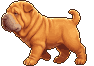
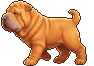
Shrink the ears to 70% and add a macOS build
- sprite pipeline pinches each ear to 70% of its drawn size on every
  pose and animation frame
- macOS support: menu-bar icon, no Dock icon, visible on all Spaces,
  universal dmg with an ad-hoc signature
- CI builds Windows and macOS apps

Claude-Session: https://claude.ai/code/session_01DBRrwihHR9FfhuiDe6rMt6

diff --git a/src/main.js b/src/main.js
@@ -2,6 +2,7 @@ const { app, BrowserWindow, Tray, Menu, screen, ipcMain, powerMonitor, nativeIma
 const fs = require('fs');
 const path = require('path');
 
+const MAC = process.platform === 'darwin';
 const ASSETS = path.join(__dirname, '..', 'assets');
 const BASE_W = 300, BASE_H = 330;      // window size at 100% scale
 const TICK_MS = 33;
@@ -142,7 +143,7 @@ function buildMenu() {
       { label: 'Show one now', click: () => { nextReminder = 0; } },
     ] },
     { label: 'Size', submenu: [radio('Small', 'size', 0.7), radio('Medium', 'size', 1), radio('Large', 'size', 1.4)] },
-    { label: 'Start with Windows', type: 'checkbox', checked: app.getLoginItemSettings().openAtLogin,
+    { label: MAC ? 'Start at login' : 'Start with Windows', type: 'checkbox', checked: app.getLoginItemSettings().openAtLogin,
       click: (i) => app.setLoginItemSettings({ openAtLogin: i.checked }) },
     { type: 'separator' },
     { label: 'Quit', click: () => app.quit() },
@@ -171,6 +172,8 @@ app.whenReady().then(() => {
     webPreferences: { preload: path.join(__dirname, 'preload.js') },
   });
   win.setAlwaysOnTop(true, 'screen-saver');
+  // macOS: no Dock icon (LSUIElement), and stay with you across Spaces and fullscreen apps
+  if (MAC) win.setVisibleOnAllWorkspaces(true, { visibleOnFullScreen: true });
   win.setIgnoreMouseEvents(true, { forward: true });
   win.loadFile(path.join(__dirname, 'index.html'));
   win.once('ready-to-show', () => {
@@ -180,10 +183,11 @@ app.whenReady().then(() => {
     setTimeout(() => send({ bubble: 'Woof! I live here now 🐶' }), 800);
   });
 
-  tray = new Tray(nativeImage.createFromPath(path.join(ASSETS, 'tray.png')));
+  // macOS menu bar wants a small icon; tray-mac.png has an @2x sibling for Retina
+  tray = new Tray(nativeImage.createFromPath(path.join(ASSETS, MAC ? 'tray-mac.png' : 'tray.png')));
   tray.setToolTip('Pupp Companion');
   refreshMenu();
-  tray.on('click', () => pet());
+  if (!MAC) tray.on('click', () => pet());   // on macOS a click opens the menu
 
   ipcMain.on('ignore-mouse', (_e, ignore) => {
     if (pup.state === 'held') return;

diff --git a/tools/adhoc-sign.js b/tools/adhoc-sign.js
@@ -1,0 +1,13 @@
+// electron-builder afterPack hook.
+// We have no Apple developer certificate, so give the finished macOS app an
+// ad-hoc signature: Apple Silicon Macs refuse to launch apps with no signature at all.
+const { execFileSync } = require('child_process');
+const path = require('path');
+
+exports.default = async function (context) {
+  if (context.electronPlatformName !== 'darwin') return;
+  // universal builds pack x64 and arm64 into temp folders first; only sign the merged app
+  if (/-temp$/.test(context.appOutDir)) return;
+  const app = path.join(context.appOutDir, `${context.packager.appInfo.productFilename}.app`);
+  execFileSync('codesign', ['--force', '--deep', '--sign', '-', app], { stdio: 'inherit' });
+};

diff --git a/tools/process_sprites.py b/tools/process_sprites.py
@@ -20,6 +20,54 @@ SHEETS = {
     "fall": {"frames": 4, "height": 74, "ref": 3, "names": ["fall1", "fall2", "splat", "dazed"]},
 }
 
+# Ears are drawn smaller than in the renders. Each entry is (centre x, centre y, radius)
+# of an ear: full-image coordinates for single poses, frame coordinates for sheet frames.
+EAR_SCALE = 0.7
+EARS = {
+    "sit": [(1140, 360, 140), (385, 365, 95)],
+    "blink": [(1140, 360, 140), (385, 365, 95)],
+    "happy": [(1140, 360, 140), (385, 365, 95)],
+    "held": [(1215, 280, 110), (700, 285, 100)],
+    "sleep": [(1135, 1040, 130), (305, 1010, 95)],
+    "walk": [[(238, 60, 58)]] * 8,
+    "fall": [
+        [(55, 85, 95), (360, 45, 65)],
+        [(70, 140, 110), (340, 75, 85)],
+        [(340, 305, 75), (610, 255, 60)],
+        [(222, 118, 80), (505, 43, 50)],
+    ],
+}
+
+
+def shrink_ears(rgba, ears, scale=EAR_SCALE):
+    """Pinch each ear toward its centre so it ends up `scale` times its size.
+
+    Inside the ear the picture is scaled down; a ring around it stretches to fill
+    the gap, so the head and background stay continuous.
+    """
+    out = rgba.astype(np.float32)
+    out[..., :3] *= out[..., 3:] / 255          # premultiply so edges don't fringe
+    src = out.copy()
+    h, w = rgba.shape[:2]
+    for cx, cy, ear_r in ears:
+        outer = ear_r * 1.6
+        y0, y1 = max(0, int(cy - outer)), min(h, int(cy + outer) + 1)
+        x0, x1 = max(0, int(cx - outer)), min(w, int(cx + outer) + 1)
+        yy, xx = np.mgrid[y0:y1, x0:x1].astype(np.float32)
+        dx, dy = xx - cx, yy - cy
+        r = np.hypot(dx, dy)
+        inner = scale * ear_r
+        ring = ear_r + (r - inner) * (outer - ear_r) / (outer - inner)
+        from_r = np.where(r <= inner, r / scale, np.where(r < outer, ring, r))
+        k = np.where(r > 0, from_r / np.maximum(r, 1e-6), 1)
+        coords = [cy + dy * k, cx + dx * k]
+        for c in range(4):
+            out[y0:y1, x0:x1, c] = ndimage.map_coordinates(src[..., c], coords, order=1, mode="constant")
+        src = out.copy()
+    a = out[..., 3:]
+    out[..., :3] = np.where(a > 0, out[..., :3] * 255 / np.maximum(a, 1e-3), 0)
+    return np.clip(out, 0, 255).astype(np.uint8)
+
 
 def key(path):
     """Green screen -> RGBA with soft alpha and green spill removed."""
@@ -133,6 +181,8 @@ def main():
     sit_box = None
     for src in sorted(RAW.glob("*.png"), key=lambda p: p.stem != "sit"):  # sit first
         rgba = biggest_blob(key(src))
+        if src.stem in EARS:
+            rgba = shrink_ears(rgba, EARS[src.stem])
         if src.stem == "sit":
             sit_box = bbox(rgba)
         # blink is the sit frame with closed eyes: share its box so it doesn't jitter
@@ -141,6 +191,7 @@ def main():
     # animation sheets
     for name, cfg in SHEETS.items():
         figs = split_sheet(key(RAW / "sheets" / f"{name}.png"), cfg["frames"])
+        figs = [shrink_ears(f, ears) for f, ears in zip(figs, EARS[name])]
         ref = np.mean([f.shape[0] for f in figs]) if cfg["ref"] is None else figs[cfg["ref"]].shape[0]
         frames = [pixelate(f, ref / cfg["height"]) for f in figs]
         names = cfg.get("names") or [f"{name}{i + 1}" for i in range(len(frames))]
@@ -172,8 +223,10 @@ def main():
         if name == "sit":
             side = int(out.width * 0.64)
             face = out.crop((0, 0, side, side))
-            face.resize((256, 256), Image.NEAREST).save(OUT / "icon.png")
+            face.resize((512, 512), Image.NEAREST).save(OUT / "icon.png")
             face.resize((32, 32), Image.BOX).save(OUT / "tray.png")
+            face.resize((18, 18), Image.BOX).save(OUT / "tray-mac.png")
+            face.resize((36, 36), Image.BOX).save(OUT / "tray-mac@2x.png")
 
 
 if __name__ == "__main__":

diff --git a/README.md b/README.md
@@ -1,6 +1,6 @@
 # Pupp Companion
 
-A wrinkly Shar-Pei puppy that lives on your Windows desktop, drawn in chunky pixel art.
+A wrinkly Shar-Pei puppy that lives on your Windows or Mac desktop, drawn in chunky pixel art.
 
 <img src="assets/icon.png" width="128" alt="Pupp Companion">
 
@@ -11,14 +11,25 @@ A wrinkly Shar-Pei puppy that lives on your Windows desktop, drawn in chunky pix
 - **Follows your cursor** when it gets too far away.
 - **Gentle reminders** – a speech bubble nudges you to drink water, stretch or rest your eyes.
 
-Right-click the puppy (or its tray icon) for settings: follow on/off, reminder
-interval, size, start with Windows, quit.
+Right-click the puppy (or its tray / menu-bar icon) for settings: follow on/off,
+reminder interval, size, start at login, quit.
 
 ## Get it
 
-**Download:** every push to `main` builds the Windows app. Open the repo's
-*Actions* tab → latest *Build Windows app* run → download the
-`PuppCompanion-windows` artifact. It contains an installer and a portable `.exe`.
+**Download:** every push to `main` builds both apps. Open the repo's *Actions*
+tab → latest *Build apps* run → download the artifact for your computer:
+
+- **Windows** – `PuppCompanion-windows`: an installer and a portable `.exe`.
+  Windows SmartScreen may warn because the app is unsigned: *More info* → *Run anyway*.
+- **Mac** (Intel and Apple Silicon) – `PuppCompanion-mac`: a `.dmg`. Open it and
+  drag *Pupp Companion* to *Applications*. The app is not notarized by Apple, so
+  the first launch is blocked: open *System Settings → Privacy & Security*,
+  scroll down and click **Open Anyway**. If macOS says the app is damaged, run
+  this once in Terminal:
+
+  ```bash
+  xattr -dr com.apple.quarantine "/Applications/Pupp Companion.app"
+  ```
 
 **Run from source** (needs [Node.js](https://nodejs.org)):
 
@@ -27,7 +38,7 @@ npm install
 npm start
 ```
 
-**Build the .exe yourself** (on Windows):
+**Build it yourself** (on the system you are building for):
 
 ```bash
 npm run dist
